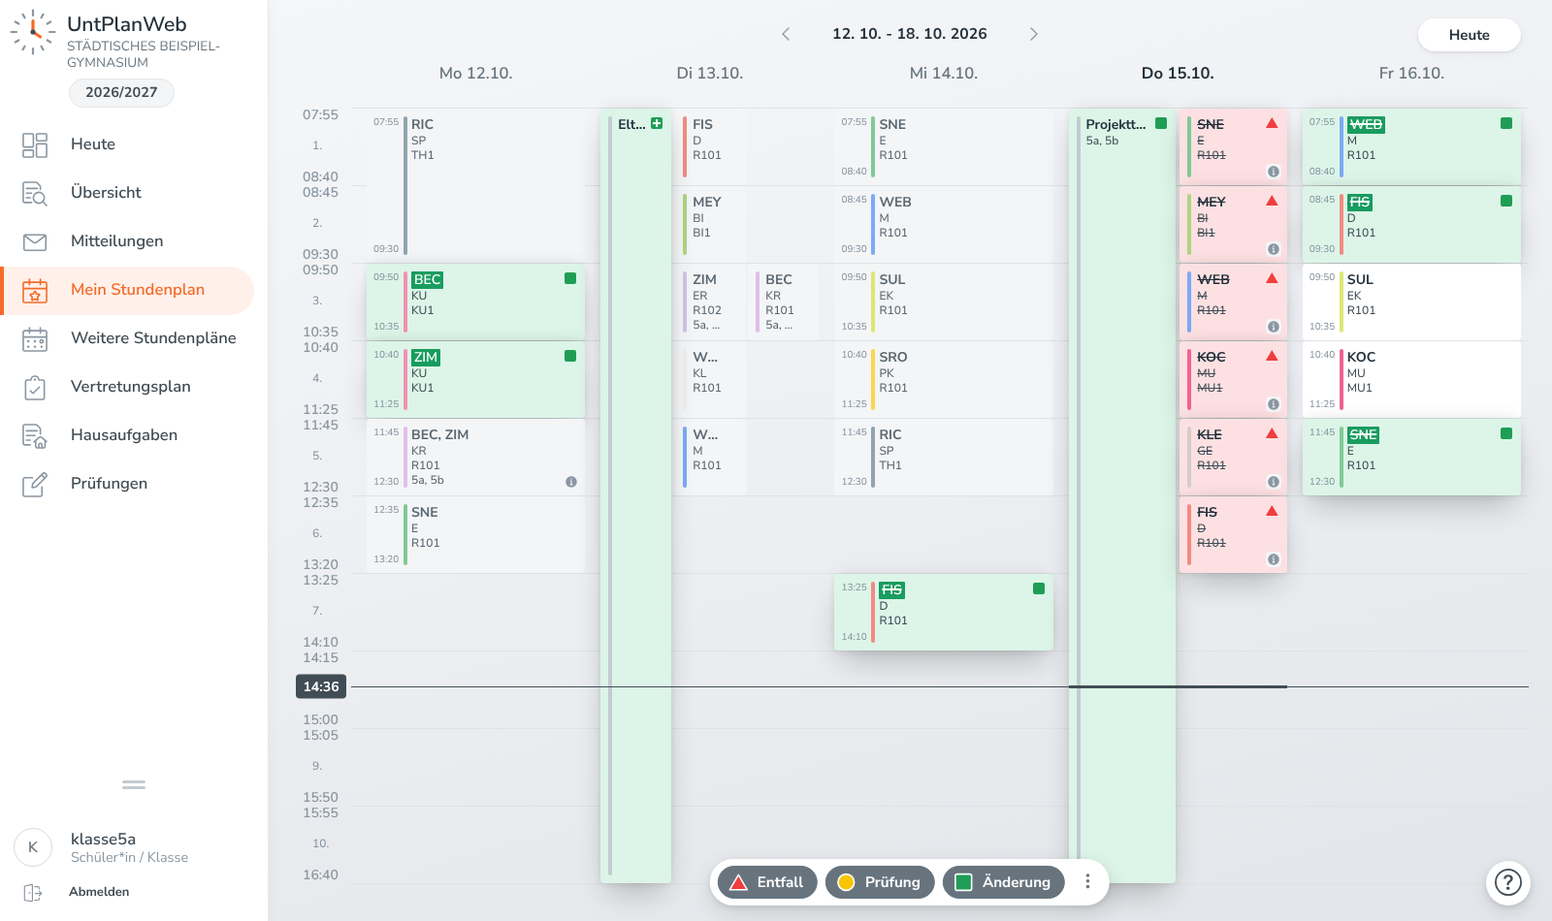
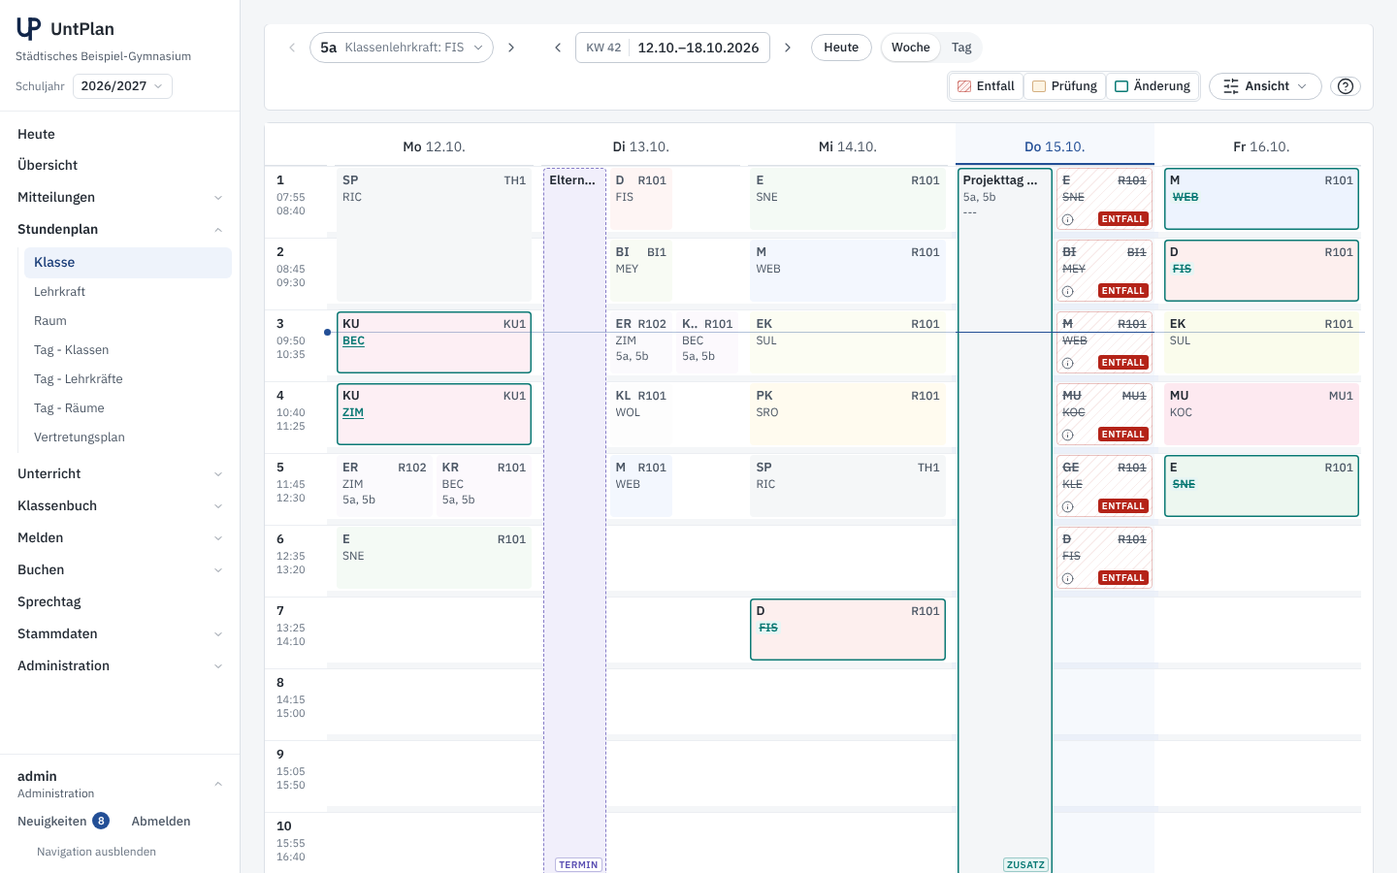
Zwischenstand: UntPlan Web (in Arbeit)
Claude-Session: https://claude.ai/code/session_01Qh4Tuihm3YFN8v1UQgn9UW

diff --git a/web/src/UntPlanWeb/wwwroot/css/seitenlayout.css b/web/src/UntPlanWeb/wwwroot/css/seitenlayout.css
@@ -63,12 +63,37 @@
 
 /* ------------------------------------------------------------------ Suchfeld (gemeinsame Komponente) */
 
+:is(.u-suchfeld, .au-suchfeld, .nl-suche, .br-suche, .sp-suche, .mt-suche, .mt-ew-suche, .mt-suchfeld):is(.u-suchfeld, .au-suchfeld, .nl-suche, .br-suche, .sp-suche, .mt-suche, .mt-ew-suche, .mt-suchfeld) {
+  position: relative; display: flex; align-items: center; gap: 10px; min-width: 0; height: 40px; margin-bottom: 0; padding: 0 14px 0 14px;
+  background: var(--up-schiefer-50); border: 1px solid transparent; border-radius: 20px; box-shadow: none; color: var(--up-text); cursor: text;
+  transition: background-color .12s, border-color .12s, box-shadow .12s;
+}
 .au-suchfeld.au-suchfeld { display: inline-flex; vertical-align: middle; }
 .u-suchfeld.u-suchfeld { flex: 1 1 260px; max-width: 480px; }
 .u-suchfeld.u-suchfeld.voll { max-width: none; width: 100%; }
-
+:is(.u-suchfeld, .au-suchfeld, .nl-suche, .br-suche, .sp-suche, .mt-suche, .mt-ew-suche, .mt-suchfeld):is(.u-suchfeld, .au-suchfeld, .nl-suche, .br-suche, .sp-suche, .mt-suche, .mt-ew-suche, .mt-suchfeld):hover { background: var(--up-schiefer-100); }
+:is(.u-suchfeld, .au-suchfeld, .nl-suche, .br-suche, .sp-suche, .mt-suche, .mt-ew-suche, .mt-suchfeld):is(.u-suchfeld, .au-suchfeld, .nl-suche, .br-suche, .sp-suche, .mt-suche, .mt-ew-suche, .mt-suchfeld):focus-within {
+  background: var(--up-flaeche) !important; border-color: rgba(var(--u-akzent-rgb, 35, 79, 150), .55); box-shadow: 0 0 0 3px rgba(var(--u-akzent-rgb, 35, 79, 150), .12);
+}
 /* direkt auf dem grauen Seitengrund etwas kräftiger, auf weißen Flächen (Karten, Tabellen, Dialoge) das helle Grau */
-
+.u-inhalt :is(.u-suchfeld, .au-suchfeld, .nl-suche, .br-suche, .sp-suche, .mt-suche, .mt-ew-suche, .mt-suchfeld):is(.u-suchfeld, .au-suchfeld, .nl-suche, .br-suche, .sp-suche, .mt-suche, .mt-ew-suche, .mt-suchfeld) { background: var(--up-rand); }
+.u-inhalt :is(.u-suchfeld, .au-suchfeld, .nl-suche, .br-suche, .sp-suche, .mt-suche, .mt-ew-suche, .mt-suchfeld):is(.u-suchfeld, .au-suchfeld, .nl-suche, .br-suche, .sp-suche, .mt-suche, .mt-ew-suche, .mt-suchfeld):hover { background: var(--up-rand); }
+.u-inhalt :is(.card, .u-panel, .nl-tabelle, .u-tabelle-karte, .rm-rollenkarte, .list-group, .kbd-fenster, .bv-karte, .nl-karte) :is(.u-suchfeld, .au-suchfeld, .nl-suche, .br-suche, .sp-suche, .mt-suche, .mt-ew-suche, .mt-suchfeld):is(.u-suchfeld, .au-suchfeld, .nl-suche, .br-suche, .sp-suche, .mt-suche, .mt-ew-suche, .mt-suchfeld) { background: var(--up-schiefer-50); }
+.u-inhalt :is(.card, .u-panel, .nl-tabelle, .u-tabelle-karte, .rm-rollenkarte, .list-group, .kbd-fenster, .bv-karte, .nl-karte) :is(.u-suchfeld, .au-suchfeld, .nl-suche, .br-suche, .sp-suche, .mt-suche, .mt-ew-suche, .mt-suchfeld):is(.u-suchfeld, .au-suchfeld, .nl-suche, .br-suche, .sp-suche, .mt-suche, .mt-ew-suche, .mt-suchfeld):hover { background: var(--up-schiefer-100); }
+:is(.u-suchfeld, .au-suchfeld, .nl-suche, .br-suche, .sp-suche, .mt-suche, .mt-ew-suche, .mt-suchfeld) > :is(.bi-search, .bi, .au-lupe, .u-sym) {
+  position: static !important; transform: none !important; flex: none; width: auto; height: auto; color: var(--up-text-2) !important; font-size: 1rem; line-height: 1; pointer-events: none;
+}
+:is(.u-suchfeld, .au-suchfeld, .nl-suche, .br-suche, .sp-suche, .mt-suche, .mt-ew-suche, .mt-suchfeld) > input {
+  flex: 1 1 auto; width: 100% !important; min-width: 0; height: 100% !important; padding: 0 !important; margin: 0; border: 0 !important; border-radius: 0 !important;
+  background: transparent !important; box-shadow: none !important; outline: 0 !important; font: inherit; font-size: .9rem !important; font-weight: 500 !important; color: var(--up-text);
+}
+:is(.u-suchfeld, .au-suchfeld, .nl-suche, .br-suche, .sp-suche, .mt-suche, .mt-ew-suche, .mt-suchfeld) > input::placeholder { color: var(--up-text-3); font-weight: 500; opacity: 1; }
+:is(.u-suchfeld, .au-suchfeld, .nl-suche, .br-suche, .sp-suche, .mt-suche, .mt-ew-suche, .mt-suchfeld) > input::-webkit-search-cancel-button { -webkit-appearance: none; display: none; }
+:is(.u-suchfeld, .au-suchfeld, .nl-suche, .br-suche, .sp-suche, .mt-suche, .mt-ew-suche, .mt-suchfeld).au-mit-x { padding-right: 38px; }
+:is(.u-suchfeld, .au-suchfeld, .nl-suche, .br-suche, .sp-suche, .mt-suche, .mt-ew-suche, .mt-suchfeld).au-mit-x > .au-x {
+  position: absolute; right: 9px; top: 50%; transform: translateY(-50%); width: 24px; height: 24px; border-radius: 50%; background: var(--up-rand); color: var(--up-text); font-size: .62rem;
+}
+:is(.u-suchfeld, .au-suchfeld, .nl-suche, .br-suche, .sp-suche, .mt-suche, .mt-ew-suche, .mt-suchfeld).au-mit-x > .au-x:hover { background: var(--up-rand-stark); color: var(--up-text); }
 .au-suchfeld.au-sm.au-sm { height: 34px; border-radius: 17px; padding-left: 12px; }
 .mt-ew-suche.mt-ew-suche { margin: 0 24px; }
 

diff --git a/web/src/UntPlanWeb/wwwroot/js/monitor.js b/web/src/UntPlanWeb/wwwroot/js/monitor.js
@@ -1,5 +1,6 @@
 // Monitoranzeige (ohne Anmeldung, über geheimen Link): Vertretungsplan mit Uhr, automatischem Bildlauf und Aktualisierung.
-import { LOGO, e, datumLang } from './ui.js';
+import { e, datumLang } from './ui.js';
+import { MARKE } from './symbole.js';
 
 const wurzel = document.getElementById('monitor');
 const token = location.pathname.split('/').filter(Boolean).pop();
@@ -63,7 +64,7 @@ async function laden() {
     // Monitoransichten (Administration): Nachrichten in der Kopfzeile der Tage, Laufschrift, Aktualisierungsintervall
     const anzeige = d.anzeige ?? {};
     const ticker = anzeige.ticker && d.tage[0]?.nachrichten.length ? d.tage[0].nachrichten.join('   +++   ') : '';
-    wurzel.innerHTML = `<header class="monitor-kopf">${LOGO}<div><h1>Vertretungsplan</h1><div class="schule">${e(d.schule)}</div></div><div class="uhr"></div></header>
+    wurzel.innerHTML = `<header class="monitor-kopf">${MARKE}<div><h1>Vertretungsplan</h1><div class="schule">${e(d.schule)}</div></div><div class="uhr"></div></header>
       <div class="monitor-tage">${d.tage.map(t => tagHtml(t, d.version === 'lehrer', anzeige.kopfzeile !== false)).join('') || '<p class="monitor-leer">Keine Daten.</p>'}</div>
       ${ticker ? `<div class="monitor-ticker"><span>${e(ticker)}</span></div>` : ''}`;
     const takt = Math.max(15, Number(anzeige.aktualisierung) || 60) * 1000;

diff --git a/web/src/UntPlanWeb/wwwroot/css/monitor.css b/web/src/UntPlanWeb/wwwroot/css/monitor.css
@@ -4,7 +4,9 @@
 body.monitor { margin: 0; min-height: 100vh; background: var(--up-marine-900); color: #e8eef7; font-family: var(--up-schrift); font-size: 18px; -webkit-font-smoothing: antialiased; }
 #monitor { padding: 24px 32px 72px; }
 .monitor-kopf { display: flex; align-items: center; gap: 16px; padding-bottom: 20px; margin-bottom: 24px; border-bottom: 1px solid rgba(255, 255, 255, .12); }
-.monitor-kopf .wortmarke { color: #fff; font-weight: 600; letter-spacing: -.01em; font-size: 26px; padding-right: 16px; border-right: 1px solid rgba(255, 255, 255, .2); }
+.monitor-kopf .marke { display: inline-flex; align-items: center; gap: 10px; padding-right: 16px; border-right: 1px solid rgba(255, 255, 255, .2); color: #fff; }
+.monitor-kopf .zeichen { width: 30px; height: 30px; }
+.monitor-kopf .wortmarke { color: #fff; font-weight: 600; letter-spacing: -.01em; font-size: 26px; }
 .monitor-kopf h1 { margin: 0; font-size: 28px; font-weight: 600; color: #fff; line-height: 1.2; }
 .monitor-kopf .schule { color: var(--up-marine-200); font-size: 16px; }
 .monitor-kopf .uhr { margin-left: auto; font-size: 40px; font-weight: 600; color: #fff; font-variant-numeric: tabular-nums; }

diff --git a/web/src/UntPlanWeb/wwwroot/css/nl-design.css b/web/src/UntPlanWeb/wwwroot/css/nl-design.css
@@ -21,8 +21,14 @@ body:has(.u-app.zu > .u-leiste) { --u-leiste-akt: var(--u-leiste-zu); }
 .u-toasts { left: var(--u-inhalt-mitte); max-width: calc(100% - var(--u-leiste-akt) - 2rem); }
 
 /* Dialoge, Dialoghintergrund und Stundendetails beginnen rechts der Navigation – die Dialoge stehen dadurch mittig im Inhalt */
- .modal-backdrop, body.leiste-zu .modal-backdrop {
+.modal:not(.stundendetails), .modal-backdrop,
+body.leiste-zu .modal:not(.stundendetails), body.leiste-zu .modal-backdrop {
   left: var(--u-leiste-akt); right: 0; width: auto;
+}
+@media (max-width: 991.98px) {
+  /* Telefon: die Kopfleiste liegt über den Dialogen – Dialoge darunter beginnen lassen, damit der Titel sichtbar bleibt */
+  .modal:not(.stundendetails) .modal-dialog { margin-top: calc(var(--u-kopf) + .5rem); }
+  .modal:not(.stundendetails) .modal-dialog-centered { min-height: calc(100% - var(--u-kopf) - 1rem); }
 }
 
 /* Ladeanzeige: Kreis mittig im jeweiligen Bereich */

diff --git a/web/src/UntPlanWeb/wwwroot/css/karten.css b/web/src/UntPlanWeb/wwwroot/css/karten.css
@@ -316,7 +316,7 @@
 
 /* ------------------------------------------------------------------ Stundendetails: Seitenleiste rechts unter der Kopfleiste */
 
-.stundendetails.modal { top: var(--u-kopf); left: auto; right: 0; width: 420px; max-width: 100vw; height: calc(100% - var(--u-kopf)); padding: 0 !important; overflow: hidden; }
+.stundendetails.modal { top: 0; left: auto; right: 0; width: 420px; max-width: 100vw; height: 100%; padding: 0 !important; overflow: hidden; }
 .stundendetails.modal.breit { width: min(760px, 100vw - 64px); }
 .stundendetails .modal-dialog { position: absolute; inset: 0; width: 100%; max-width: none; height: 100%; margin: 0; transform: none !important; }
 .stundendetails .modal-content { height: 100%; max-height: none; border: 0; border-left: 1px solid var(--up-rand); border-radius: 0; box-shadow: var(--up-schatten-3); }

diff --git a/web/src/UntPlanWeb/wwwroot/css/seitenleiste.css b/web/src/UntPlanWeb/wwwroot/css/seitenleiste.css
@@ -12,7 +12,8 @@
 }
 .u-app .u-haupt { margin-left: var(--u-leiste); }
 
-/* Marke */
+/* Marke: Zeichen „UP“ und Wortmarke „UntPlan“ (IBM Plex Sans 600) – auch auf der Anmeldeseite */
+.marke .wortmarke { font-weight: 600; }
 .u-app .u-leistenkopf { padding: 16px 16px 10px; }
 .u-app .u-marke { display: block; padding: 0; color: var(--up-text); text-decoration: none !important; }
 .u-app .u-marke .marke { display: flex; flex-direction: row; align-items: center; gap: 8px; padding: 0; }

diff --git a/web/src/UntPlanWeb/wwwroot/css/anmeldung.css b/web/src/UntPlanWeb/wwwroot/css/anmeldung.css
@@ -92,4 +92,4 @@
 /* Marke: Zeichen „UP“ und Wortmarke als Text */
 .an-marke .marke { display: inline-flex; align-items: center; gap: 10px; }
 .an-marke .zeichen { width: 30px; height: 30px; color: var(--up-marine-900); }
-.an-marke .wortmarke { font-size: 22px; font-weight: 600; letter-spacing: -.01em; color: var(--up-text); }
+.an-marke .wortmarke { font-size: 22px; letter-spacing: -.01em; color: var(--up-text); }

diff --git a/web/src/UntPlanWeb/wwwroot/index.html b/web/src/UntPlanWeb/wwwroot/index.html
@@ -4,7 +4,7 @@
   <meta charset="utf-8">
   <meta name="viewport" content="width=device-width, initial-scale=1, viewport-fit=cover">
   <meta name="theme-color" content="#11264a">
-  <title>UntPlan</title>
+  <title>UntPlanWeb</title>
   <link rel="icon" href="img/logo.svg" type="image/svg+xml">
   <link rel="apple-touch-icon" href="img/apple-touch-icon.png">
   <link rel="manifest" href="manifest.webmanifest">

diff --git a/web/src/UntPlanWeb/wwwroot/css/app.css b/web/src/UntPlanWeb/wwwroot/css/app.css
@@ -828,8 +828,8 @@ button.u-statuspille:hover { border-color: var(--u-grau); color: var(--u-titel);
   
   
   
-  
-  
+  .modal:not(.stundendetails) { left: var(--u-leiste); width: auto; right: 0; }
+  body.leiste-zu .modal:not(.stundendetails) { left: var(--u-leiste-zu); }
   .modal-backdrop { left: var(--u-leiste); width: auto; right: 0; }
   body.leiste-zu .modal-backdrop { left: var(--u-leiste-zu); }
 }

diff --git a/web/tests/UntPlanWeb.Tests/KartenDarstellungTests.cs b/web/tests/UntPlanWeb.Tests/KartenDarstellungTests.cs
@@ -7,7 +7,7 @@ namespace UntPlanWeb.Tests;
 /// <summary>
 /// Stundenkarten (Sprint 26): Online-Unterricht ohne Raumlabel, Zusatzstunde mit Badge statt Vertretungstext, Verlegung mit
 /// Richtung („von“/„nach“), Pausenaufsichten mit Label hinter dem Ort, Schalter „Findet online statt“, Pfeil beim Lehrerwechsel
-/// und die macOS-Korrekturen (nur mit html.is-mac).
+/// und ohne Plattform-Sonderregeln (eine freie Schrift für alle Systeme).
 /// </summary>
 public class KartenDarstellungTests
 {
@@ -93,12 +93,12 @@ public class KartenDarstellungTests
     public void Karten_online_ohne_Raumlabel_Verlegungspfeile_Zusatzbadge()
     {
         var js = Datei("js", "plangitter.js");
-        // online: kein Raumlabel, nur das Symbol online_lesson unten auf der Karte
+        // online: kein Raumlabel, nur das Linien-Symbol „online“ unten auf der Karte
         Assert.Contains("const istOnline = (k, typ) => !!k.online && !istEntfall(k, typ) && k.status !== 'abwesend';", js);
         Assert.Contains("const raum = istOnline(k, typ) ? '' : werte(k.raeume, entfall);", js);
-        Assert.Contains("img/wu/klassenbuch/online_lesson.svg", js);
+        Assert.Contains("<i class=\"sym sym-video ecke-online\"", js);
         Assert.DoesNotContain("bi-camera-video-fill", js);
-        Assert.Contains("<path d=\"m20 11.011-3 1v-1", Datei("img", "wu", "klassenbuch", "online_lesson.svg"));
+        Assert.DoesNotContain("img/wu", js);
         // Verlegung: Richtung vom Server, Fallback Entfall = ursprüngliche Stunde
         Assert.Contains("k.verlegung === 'von' || k.verlegung === 'nach' ? k.verlegung : istEntfall(k, typ) ? 'von' : 'nach'", js);
         Assert.Contains("mk-verlegung ${richtung}", js);
@@ -106,13 +106,13 @@ public class KartenDarstellungTests
         Assert.Contains("export const ZUSATZ_TEXT = 'Zusätzl. Unterrichtsstunde';", js);
         Assert.Contains("if (k.text && k.fach && !/^entf", js);   // Sprint 27: Info-Symbol auch bei Zusatzstunden mit eigenem Text
         var css = Datei("css", "karten.css");
-        Assert.Contains(".mks .mk-verlegung.von { background-color: #f03e3e;", css);
-        Assert.Contains("M3.5 8h9M9 4.5 12.5 8 9 11.5", css);    // Pfeil nach rechts (ursprüngliche Stunde)
-        Assert.DoesNotContain("M12.5 8h-9M7 4.5 3.5 8 7 11.5", css);   // Sprint 27: auch die Zielstunde mit Pfeil nach rechts
+        // Verlegung als Schild „Verlegt“: ursprüngliche Stunde in der Entfallfarbe, Zielstunde in der Änderungsfarbe
+        Assert.Contains(".mks .mk-verlegung.von { background: var(--up-entfall); color: #fff; }", css);
+        Assert.Contains(".mks .mk-verlegung { background: var(--up-aenderung); color: #fff; }", css);
         // Zeilen etwas enger
-        Assert.Contains(".std .z1 { margin-bottom: 0; }", css);
-        Assert.Contains(".std .z2 + .z2 { margin-top: 0; }", css);
-        Assert.Contains("font-variant-numeric: lining-nums;", css);
+        Assert.Contains("line-height: 16px; margin-bottom: 1px;", css);
+        Assert.Contains(".std .z2 + .z2 { margin-top: 1px; }", css);
+        Assert.Contains("font-variant-numeric: lining-nums tabular-nums;", css);
     }
 
     [Fact]
@@ -143,40 +143,26 @@ public class KartenDarstellungTests
         Assert.DoesNotContain("<i class=\"bi bi-plus-lg\"></i>", sd);
         var css = Datei("css", "karten.css");
         Assert.Contains(".sd-schalter input:checked + .sd-schalter-spur { background: var(--u-akzent); }", css);
-        Assert.Contains(".sd-schalter input:checked + .sd-schalter-spur::after { transform: translateX(16px); }", css);
-        Assert.Contains(".sd-plus-sym { width: 16px; height: 16px; display: block; fill: none; stroke: currentColor; stroke-width: 1.5; stroke-linecap: round; }", css);
+        Assert.Contains(".sd-schalter input:checked + .sd-schalter-spur::after { transform: translateX(14px); }", css);
+        Assert.Contains(".sd-plus-sym { width: 16px; height: 16px; display: block; fill: none; stroke: currentColor; stroke-width: 1.75; stroke-linecap: round; }", css);
     }
 
-    // ------------------------------------------------------------------ macOS-Korrekturen nur mit html.is-mac
+    // ------------------------------------------------------------------ keine Plattform-Sonderregeln mehr (eine Schrift für alle Systeme)
 
     [Fact]
-    public void MacOS_Korrekturen_nur_mit_Plattformklasse()
+    public void Keine_Plattform_Sonderregeln_und_freie_Schrift()
     {
-        var plattform = Datei("js", "plattform.js");
-        Assert.Contains("document.documentElement.classList.add('is-mac')", plattform);
-        Assert.Contains("navigator.userAgentData", plattform);
         var index = Datei("index.html");
-        Assert.Contains("<link rel=\"stylesheet\" href=\"css/karten.css\">\n  <script src=\"js/plattform.js\"></script>", index);
-        Assert.True(index.IndexOf("js/plattform.js", StringComparison.Ordinal) < index.IndexOf("js/app.js", StringComparison.Ordinal));
-
-        var css = Datei("css", "karten.css");
-        var mac = css[css.IndexOf("/* ------------------------------------------------------------------ macOS", StringComparison.Ordinal)..];
-        Assert.Contains("text-box: trim-both cap alphabetic;", mac);
-        Assert.Contains("text-underline-offset: calc(-.5cap - var(--strich) / 2);", mac);
-        Assert.Contains("text-decoration-skip-ink: none;", mac);
-        // jede Regel im macOS-Abschnitt gilt nur mit der Plattformklasse – Windows bleibt unverändert
-        var ohneKommentar = System.Text.RegularExpressions.Regex.Replace(mac, @"/\*.*?\*/", "", System.Text.RegularExpressions.RegexOptions.Singleline);
-        foreach (var kopf in ohneKommentar.Split('}').Select(r => r.Contains('{') ? r[..r.LastIndexOf('{')] : "").Select(k => k.Split('{').Last().Trim())
-                     .Where(k => k.Length > 0 && !k.StartsWith("@supports")))
-            Assert.Contains("html:root.is-mac", kopf);
-        Assert.DoesNotContain("is-mac", css[..css.IndexOf("/* ------------------------------------------------------------------ macOS", StringComparison.Ordinal)].Replace("<html class=\"is-mac\">", ""));
-        Assert.DoesNotContain("text-box", Datei("css", "app.css"));
+        Assert.DoesNotContain("plattform.js", index);
+        Assert.DoesNotContain("is-mac", Datei("css", "karten.css"));
+        Assert.Contains("IBM Plex Sans", Datei("css", "tokens.css"));
+        Assert.Contains("--u-schrift: var(--up-schrift);", Datei("css", "app.css"));
     }
 
     [Fact]
     public void Neue_Dateien_ohne_Fremdnamen_und_nur_Regular_Medium()
     {
-        foreach (var inhalt in new[] { Datei("css", "karten.css"), Datei("js", "plattform.js"), Datei("js", "plangitter.js") })
+        foreach (var inhalt in new[] { Datei("css", "karten.css"), Datei("js", "plangitter.js"), Datei("js", "symbole.js"), Datei("css", "symbole.css") })
         {
             Assert.DoesNotContain(new string(new[] { 'u', 'n', 't', 'i', 's' }), inhalt, StringComparison.OrdinalIgnoreCase);
             Assert.DoesNotContain("font-weight: 700", inhalt);

diff --git a/web/tests/UntPlanWeb.Tests/KartenSprint27Tests.cs b/web/tests/UntPlanWeb.Tests/KartenSprint27Tests.cs
@@ -346,15 +346,16 @@ public class KartenSprint27Tests
         // keine „Raum gesperrt“/„Klasse abwesend“ über dem Tag
         Assert.Contains("!/^(abwesend|raum gesperrt|klasse abwesend)\\b/i.test(h)", js);
         // Aufsichten wie die Stundenkarten bis an die Linie
-        Assert.Contains("top:${aufbau.pause.get(nach) + 1}px;height:${PAUSE - 1}px;left:calc(${j * breite}% + 1px);width:calc(${breite}% - 1px)", js);
+        Assert.Contains("top:${aufbau.pause.get(nach) + 2}px;height:${PAUSE - 4}px;left:calc(${j * breite}% + 2px);width:calc(${breite}% - 4px)", js);
         var css = Datei("css", "karten.css");
-        Assert.Contains(".u-hover-label.rot { background: #f44336;", css);
-        Assert.Contains(".u-hover-label.klein { font-size: 13px;", css);
-        Assert.Contains("M13 3.5 23.5 21H2.5Z' fill='%23ff4040' stroke='%23ff4040' stroke-width='4' stroke-linejoin='round'/%3E%3Cpath d='M7.4 16h11.2M14.2 11.6l4.4 4.4-4.4 4.4' fill='none' stroke='%23fff' stroke-width='2.5'", css);
-        Assert.Contains(".u-hover-label.pillen span { background: #6b7680;", css);
+        Assert.Contains(".u-hover-label.rot { background: var(--up-entfall); }", css);
+        Assert.Contains(".u-hover-label.klein { font-size: 11.5px;", css);
+        // Status als Schild mit Text (Entfall, Verlegt …) statt Bildzeichen
+        Assert.Contains(".mk-verlegung::before { content: \"Verlegt\"; }", css);
+        Assert.Contains(".u-hover-label.pillen span { padding: 3px 7px; border-radius: 3px; background: var(--up-schiefer-800);", css);
         Assert.Contains(".u-hover-label.pillen span.p-weg, .u-hover-label.pillen span.p-aus { text-decoration: line-through;", css);
         Assert.Contains(".std .z-liste > .z-namen", css);
-        Assert.Contains(".std .mks { gap: 4px; }", css);
+        Assert.Contains(".std .mks { position: absolute; right: 4px; bottom: 4px;", css);
     }
 
     [Fact]
@@ -368,8 +369,8 @@ public class KartenSprint27Tests
         Assert.Contains("function dialogeSchliessen()", app);
         Assert.Contains("async function abmelden() {\n  dialogeSchliessen();", app);
         var css = Datei("css", "karten.css");
-        Assert.Contains(".sd-titel h2 .sd-statuspille:not(.sd-einzelpille), .sd-kopf.grau .sd-titel h2 .sd-statuspille:not(.sd-einzelpille) { background: #6b7680; color: #fff; }", css);
-        Assert.Contains(".sd-fuss.sd-status .sd-orange { height: 46px; min-height: 46px;", css);
+        Assert.Contains(".sd-titel h2 .sd-statuspille:not(.sd-einzelpille) { background: var(--up-pruefung-flaeche); color: var(--up-pruefung); }", css);
+        Assert.Contains(".sd-fuss.sd-status .sd-haupt { height: 32px; }", css);
     }
     // ------------------------------------------------------------------ Lehrstoff aus Vorwochen
 
@@ -429,7 +430,7 @@ public class KartenSprint27Tests
         Assert.Contains("if (!kartenZeiten) html += `<div class=\"tt-zeit beginn\"", js);
         Assert.Contains("if (!kartenZeiten) html += `<div class=\"tt-zeit ende\"", js);
         var css = Datei("css", "karten.css");
-        Assert.Contains(".std.vorgemerkt, .std.lehrer-abwesend, .std.bereitschaft { background: #f1f5f8 !important; }", css);
-        Assert.Contains(".tt .aufsicht::before { left: 6px; top: 6px; bottom: 6px; width: 4px; border-radius: 2px; }", css);
+        Assert.Contains(".std.bereitschaft, .std.vorgemerkt, .std.lehrer-abwesend { background: var(--up-flaeche-2) !important;", css);
+        Assert.Contains(".aufsicht::before { content: \"\"; flex: none; width: 12px; height: 12px;", css);
     }
 }

diff --git a/web/tests/UntPlanWeb.Tests/KalenderOberflaecheTests.cs b/web/tests/UntPlanWeb.Tests/KalenderOberflaecheTests.cs
@@ -123,11 +123,12 @@ public class KalenderOberflaecheTests
         Assert.Contains("@media (min-width: 992px) and (max-width: 1440px) {\n  :root { --u-leiste: 248px; }", css);
         Assert.Contains("@media (min-width: 992px) and (max-width: 1300px) {\n  :root { --u-leiste: 232px; }", css);
         Assert.Contains("@media (min-width: 992px) and (max-height: 860px)", css);
-        Assert.Contains(".tt { container: plan-raster / inline-size; }", css);
-        Assert.Contains("@container plan-raster (max-width: 1000px)", css);
-        Assert.Contains("@container plan-raster (max-width: 820px)", css);
-        Assert.Contains("--tt-spalt: clamp(8px, .9vw, 14px)", css);
-        Assert.Contains(".tagplan-gitter { min-width: min(900px, 100%); }", css);
+        // das Stundenplan-Raster skaliert über Container-Abfragen in css/karten.css (eigene Gestaltung des Stundenplans)
+        var karten = Datei("css", "karten.css");
+        Assert.Contains("container: plan-raster / inline-size;", karten);
+        Assert.Contains("@container plan-raster (max-width: 980px)", karten);
+        Assert.Contains("@container plan-raster (max-width: 760px)", karten);
+        Assert.DoesNotContain(".tt {", css);
     }
 
     // ------------------------------------------------------------------ Anmeldung, Navigation, Kopf des Stundenplans
@@ -146,7 +147,8 @@ public class KalenderOberflaecheTests
         Assert.Contains("<link rel=\"stylesheet\" href=\"css/anmeldung.css\">", Datei("index.html"));
         Assert.Contains("grid-template-columns: minmax(0, 46fr) minmax(420px, 54fr)", css);
         Assert.Contains(".an-seite .lg-login { height: 48px; margin-top: 8px; border-radius: 999px;", css);
-        Assert.Contains("var(--u-akzent, #f56b2a)", css);
+        Assert.Contains("var(--u-akzent, var(--up-primaer))", css);
+        Assert.DoesNotContain("#f56b2a", css);
     }
 
     [Fact]
@@ -161,10 +163,11 @@ public class KalenderOberflaecheTests
     public void Auswahl_im_Plankopf_zeigt_den_Rahmen_nur_beim_Ueberfahren()
     {
         var css = Datei("css", "app.css");
-        Assert.Contains(".element-pill .wahl-knopf { background: transparent !important; border: 1.5px solid transparent !important;", css);
-        Assert.Contains(".element-pill .wahl-knopf:is(:hover, :focus-visible, [aria-expanded=\"true\"]) { border-color: var(--u-text) !important;", css);
-        Assert.Contains("border: 1px solid transparent; border-radius: 999px;", css);
-        Assert.Contains(".zeitraum.kal-pille:hover, .zeitraum.kal-pille[aria-expanded=\"true\"] { border-color: #67747e;", css);
+        // Elementwahl und Zeitraum stehen in der Werkzeugleiste über dem Raster (css/karten.css), nicht mehr in app.css
+        Assert.DoesNotContain(".element-pill", css);
+        var karten = Datei("css", "karten.css");
+        Assert.Contains(".wahl-knopf { gap: 8px; max-width: 320px; height: 32px;", karten);
+        Assert.Contains(".zeitraum:hover, .zeitraum.kal-pille[aria-expanded=\"true\"] { border-color: var(--up-schiefer-400);", karten);
     }
 
     [Fact]
